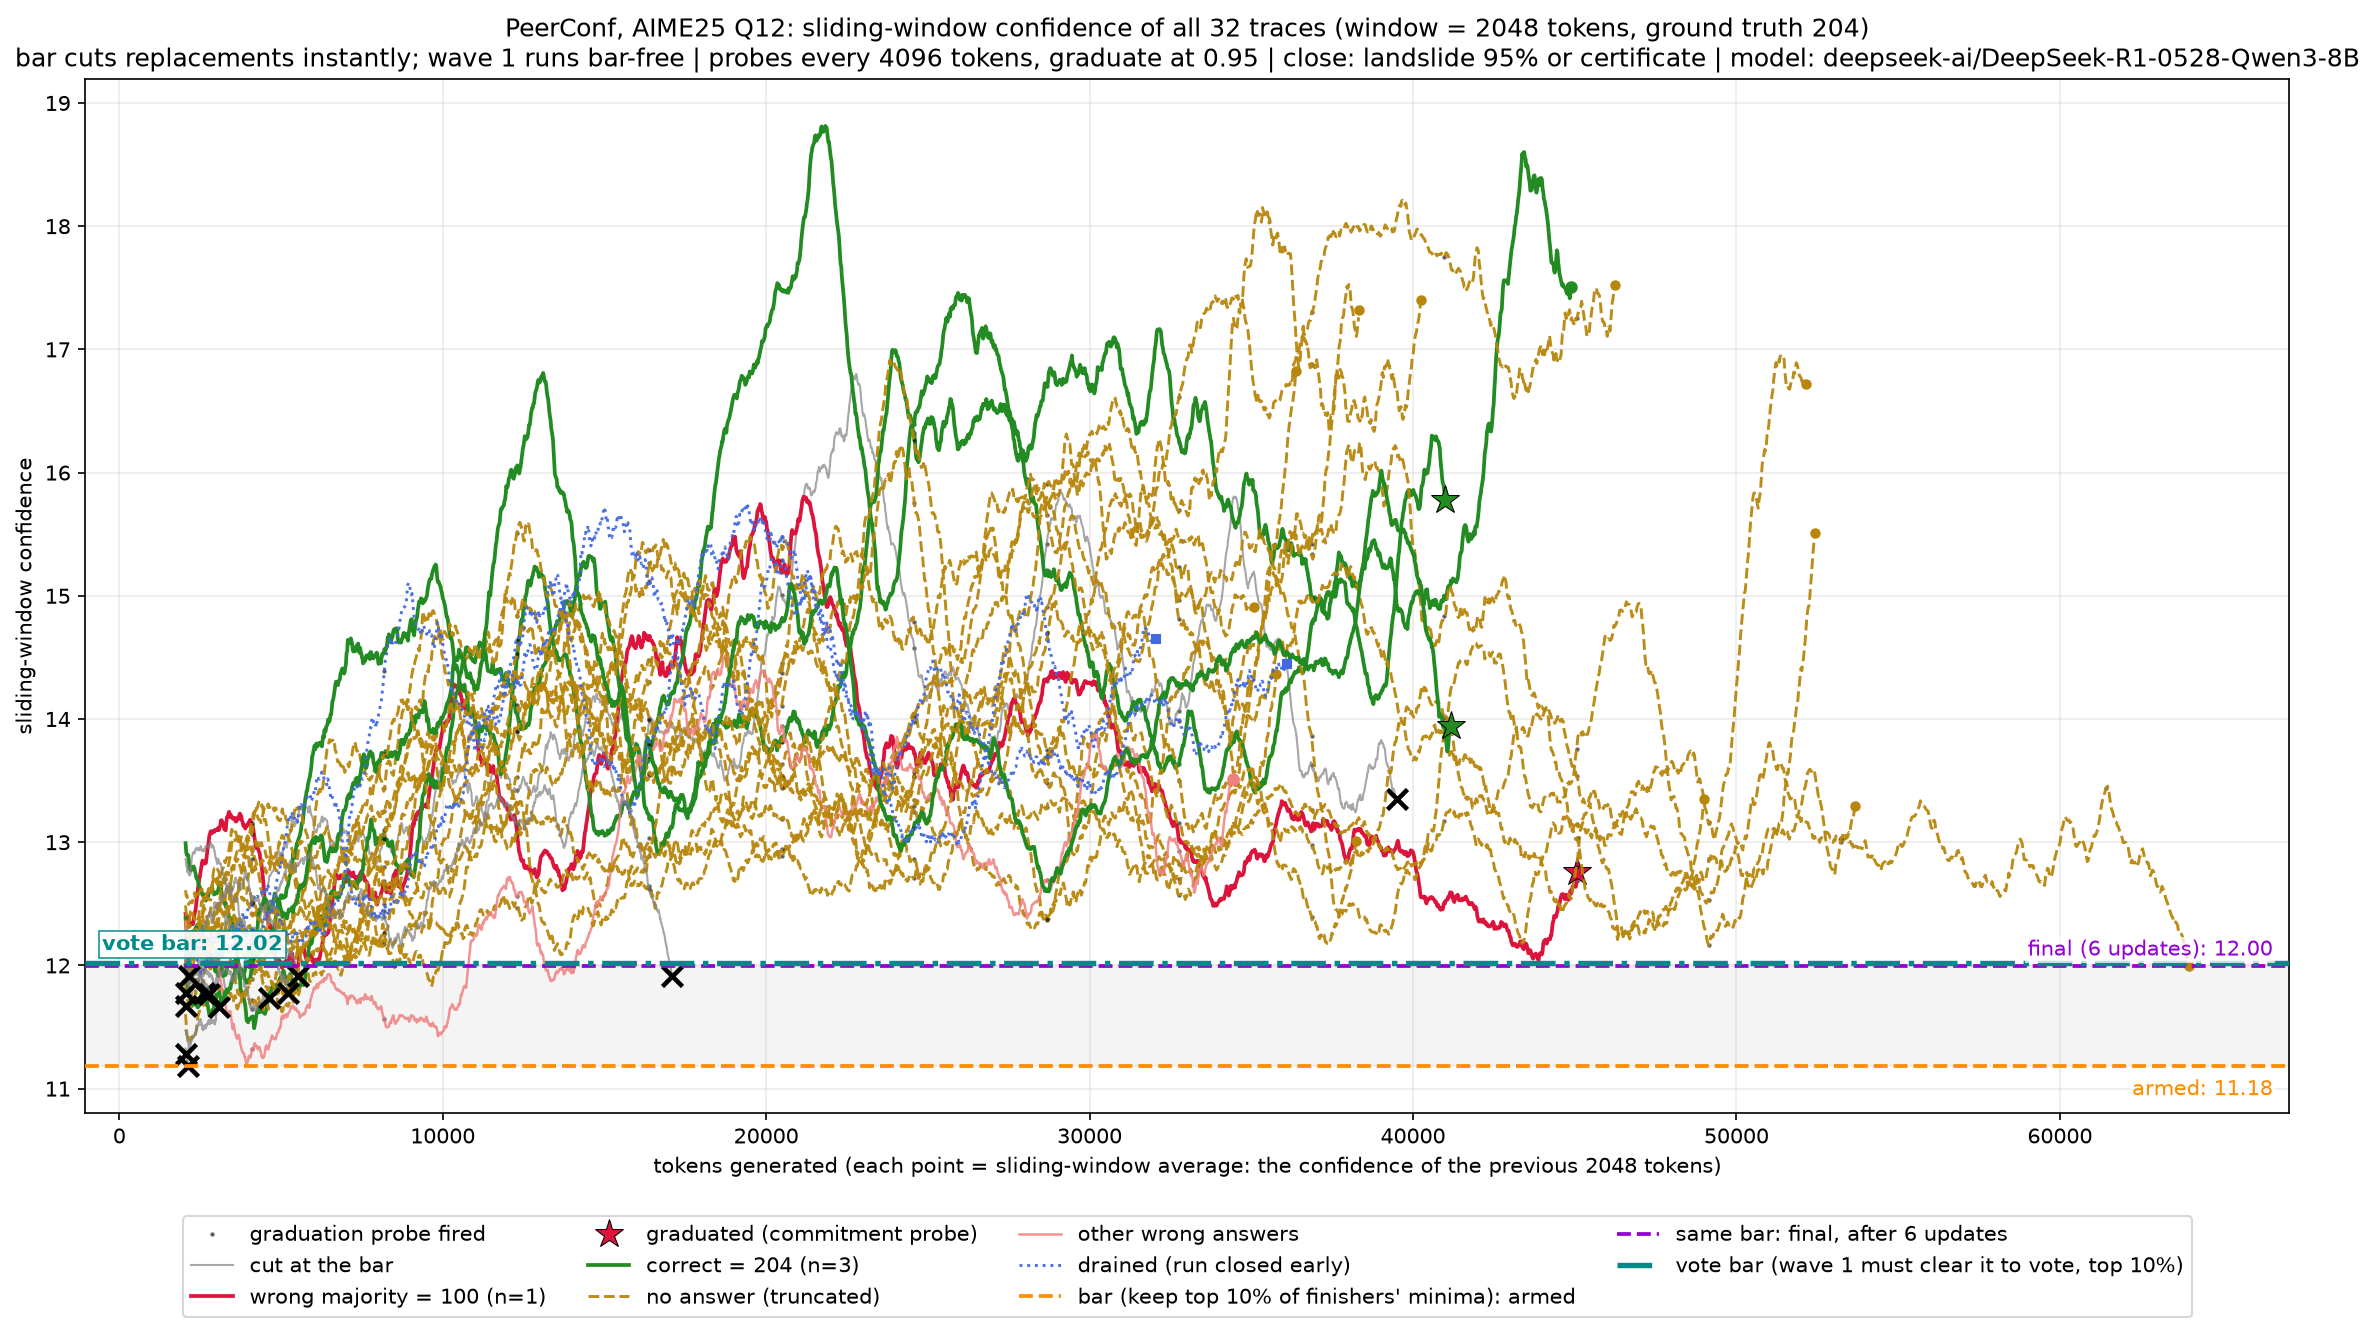
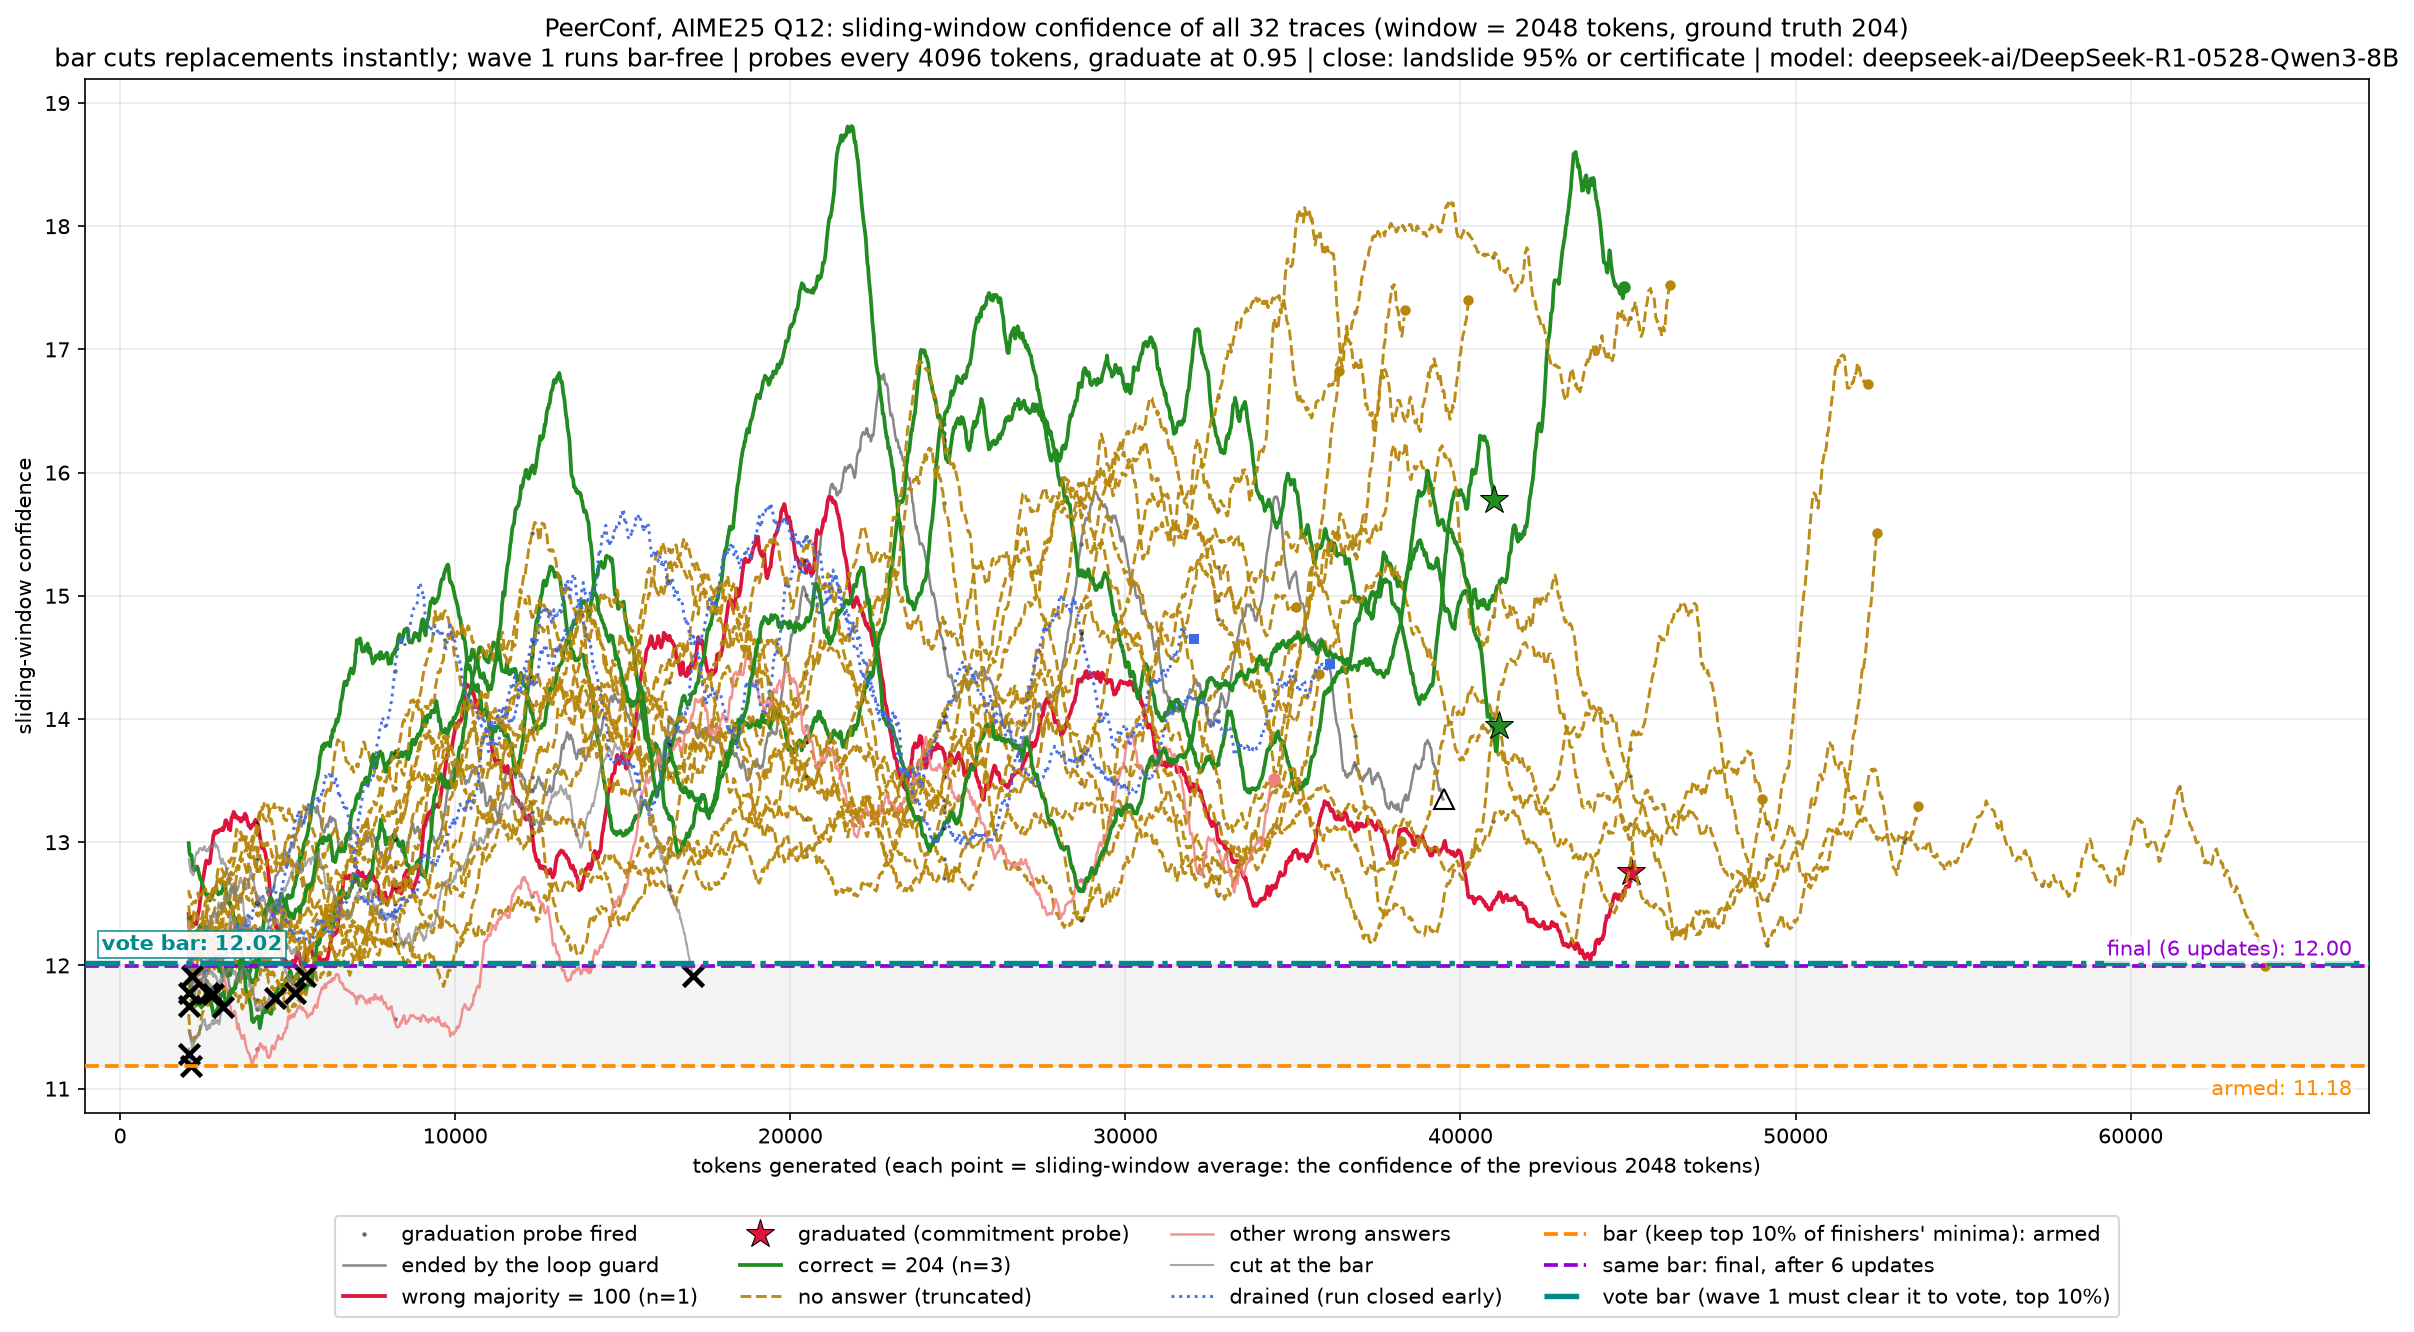
loop-guard kills are not bar cuts

diff --git a/peerconf/cell3_confidence_timeline.py b/peerconf/cell3_confidence_timeline.py
@@ -90,7 +90,14 @@ def draw_timeline(fname):
                 ax.plot(at, confs[at - WINDOW], ".", color="black", ms=2.5, alpha=0.45,
                         label=label_once("graduation probe fired"))
 
-        if t["status"] == "stopped":               # cut at the bar
+        if t["status"] == "stopped" and t.get("looped"):
+            # the loop guard, not the bar: it ends a repeating trace whatever
+            # its confidence, so these can land well above the line
+            ax.plot(xs, ys, color="dimgray", lw=1.2, alpha=0.8,
+                    label=label_once("ended by the loop guard"))
+            ax.plot(x[-1], confs[-1], "^", color="black", ms=10, mew=1.0,
+                    mfc="none")
+        elif t["status"] == "stopped":             # cut at the bar
             ax.plot(xs, ys, color="gray", lw=1.0, alpha=0.7,
                     label=label_once("cut at the bar"))
             ax.plot(x[-1], confs[-1], "x", color="black", ms=10, mew=2.2)
